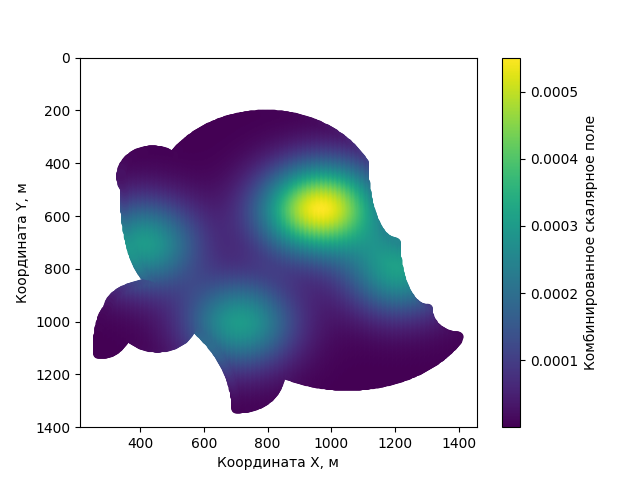
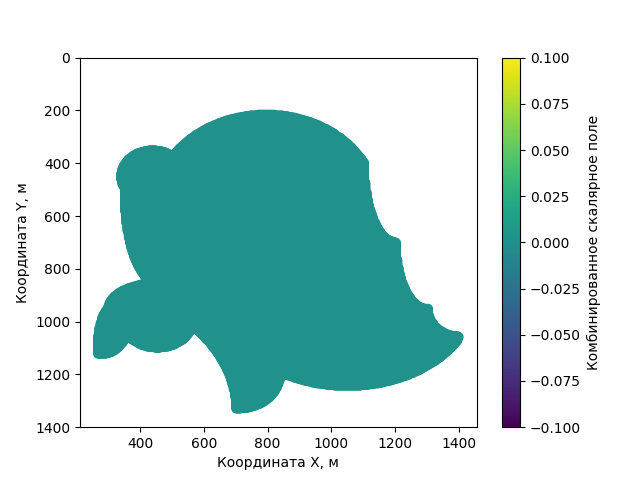
парпвверн

diff --git a/orion.py b/orion.py
@@ -131,8 +131,6 @@ for x_point_coord in np.linspace(*x_pictures_limits, points_number_per_side):
              points_coords.append(y_point_coord)
 
 
-
-
 x_p = np.array(points_coords[0::2])
 y_p = np.array(points_coords[1::2])
 
@@ -140,9 +138,9 @@ def bell_function(x, y, intensity=1, dec_rate=[0.5, 0.5]):
     scalar_func = intensity * np.exp(- dec_rate[0]*x**2 - dec_rate[1]*y**2) 
     return scalar_func
 
-intensity_centerums_x = [400, 700, 1200, 1000, 900]
-intensity_centerums_y = [700, 1000, 800, 550, 580]
-intensity_values = [0.1, 0.1, 0.1, 0.1, 0.1]
+intensity_centerums_x = []
+intensity_centerums_y = []
+intensity_values = []
 
 def scalar_function(x, y, int_cen_x, int_cen_y, int_vel):
     scalar_field = 0.0
